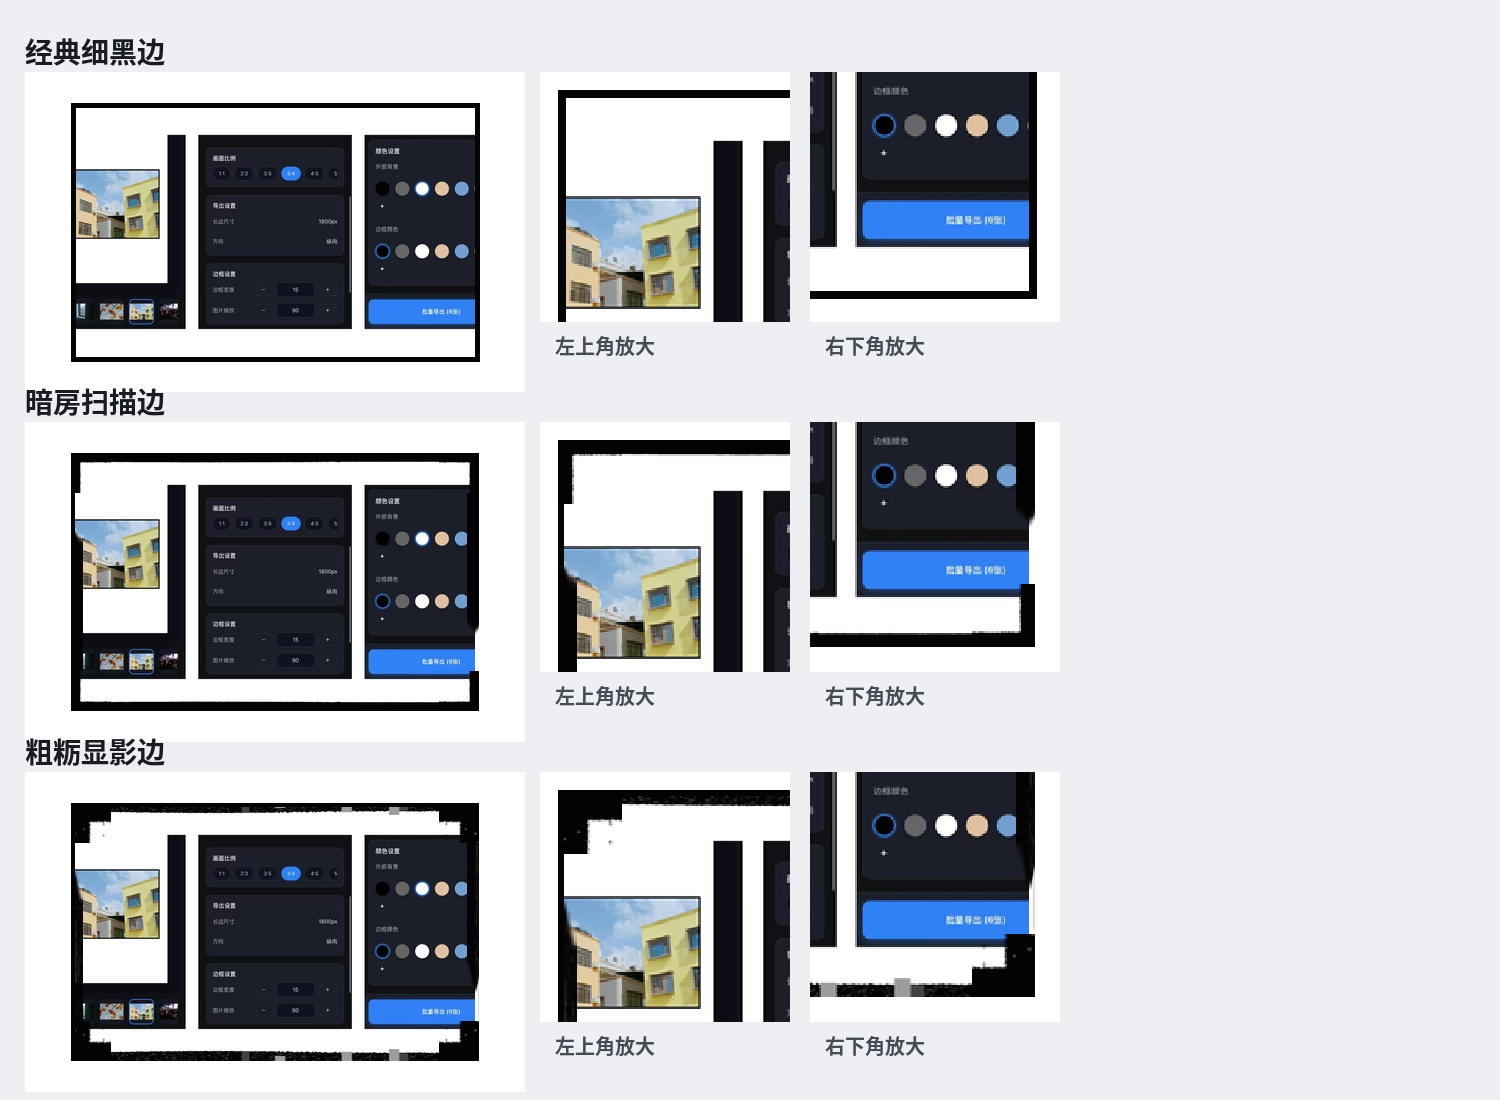
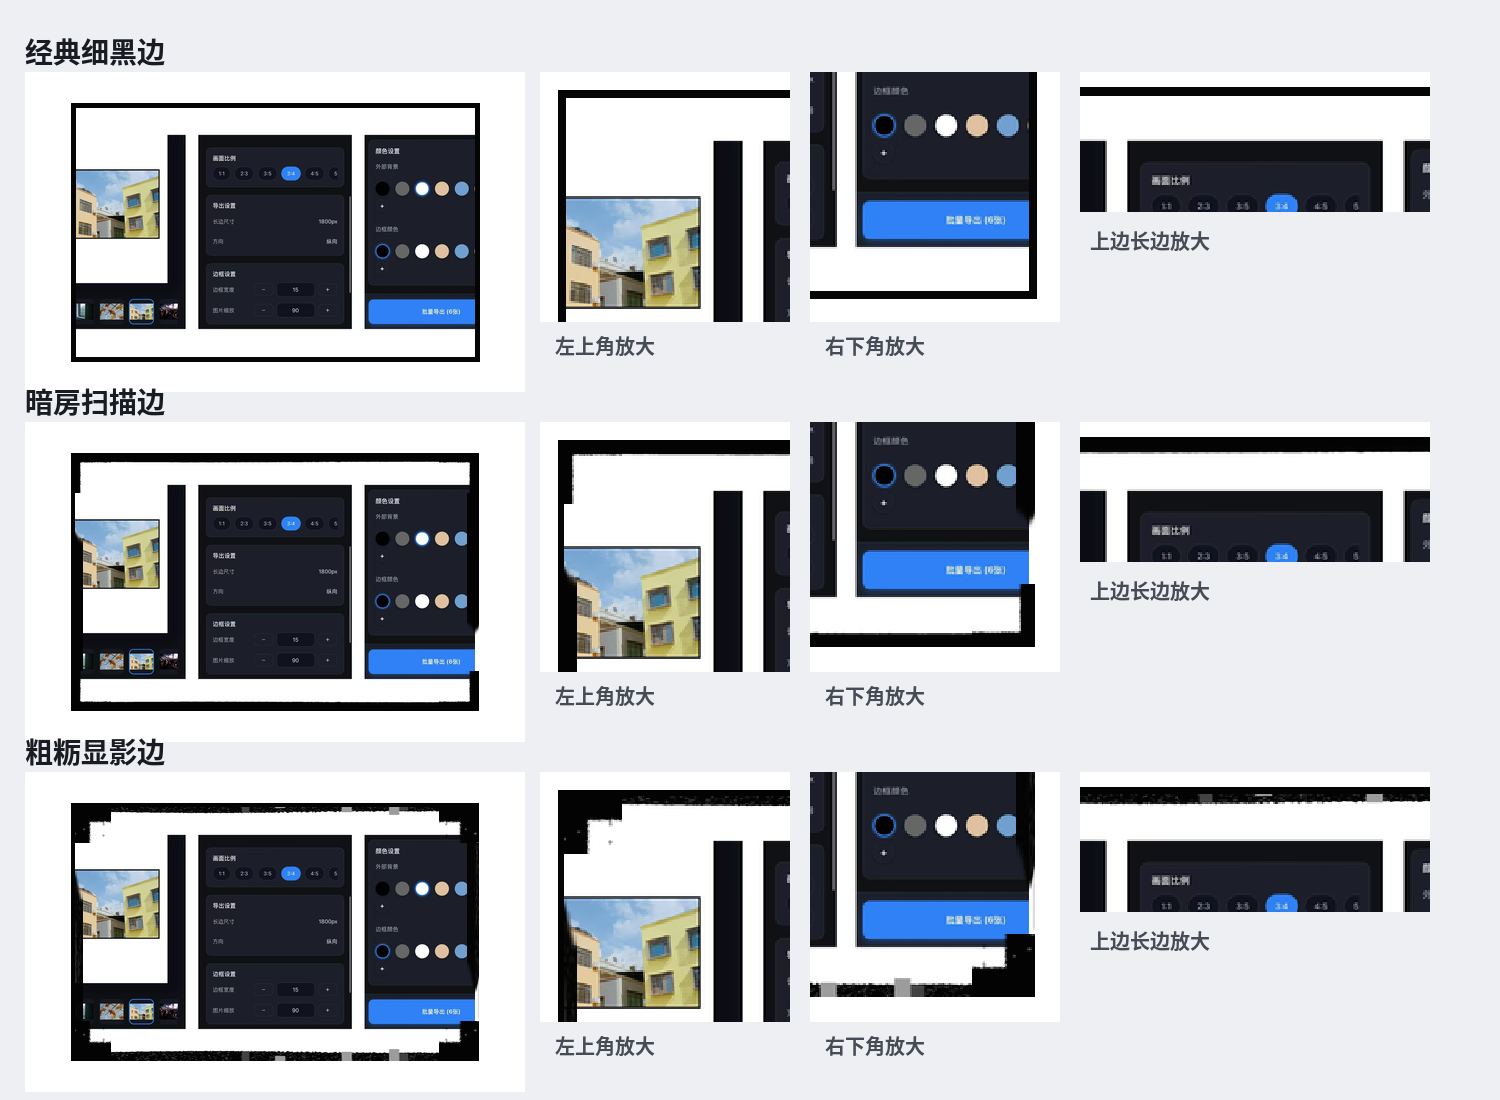
docs: add long-edge frame comparison crop

diff --git a/tools/generate-frame-contact-sheet.py b/tools/generate-frame-contact-sheet.py
@@ -74,8 +74,11 @@ def main():
         sheet.paste(crop, (540, y + 42))
         crop2 = full.crop((310, 145, 470, 305)).resize((250, 250), Image.Resampling.NEAREST)
         sheet.paste(crop2, (810, y + 42))
+        long_edge = full.crop((145, 22, 355, 105)).resize((350, 140), Image.Resampling.NEAREST)
+        sheet.paste(long_edge, (1080, y + 42))
         draw.text((555, y + 300), "左上角放大", fill=(70, 76, 86), font=label_font)
         draw.text((825, y + 300), "右下角放大", fill=(70, 76, 86), font=label_font)
+        draw.text((1090, y + 195), "上边长边放大", fill=(70, 76, 86), font=label_font)
     OUT.parent.mkdir(parents=True, exist_ok=True)
     sheet.save(OUT, optimize=True)
     print(f"wrote {OUT} ({OUT.stat().st_size} bytes)")
